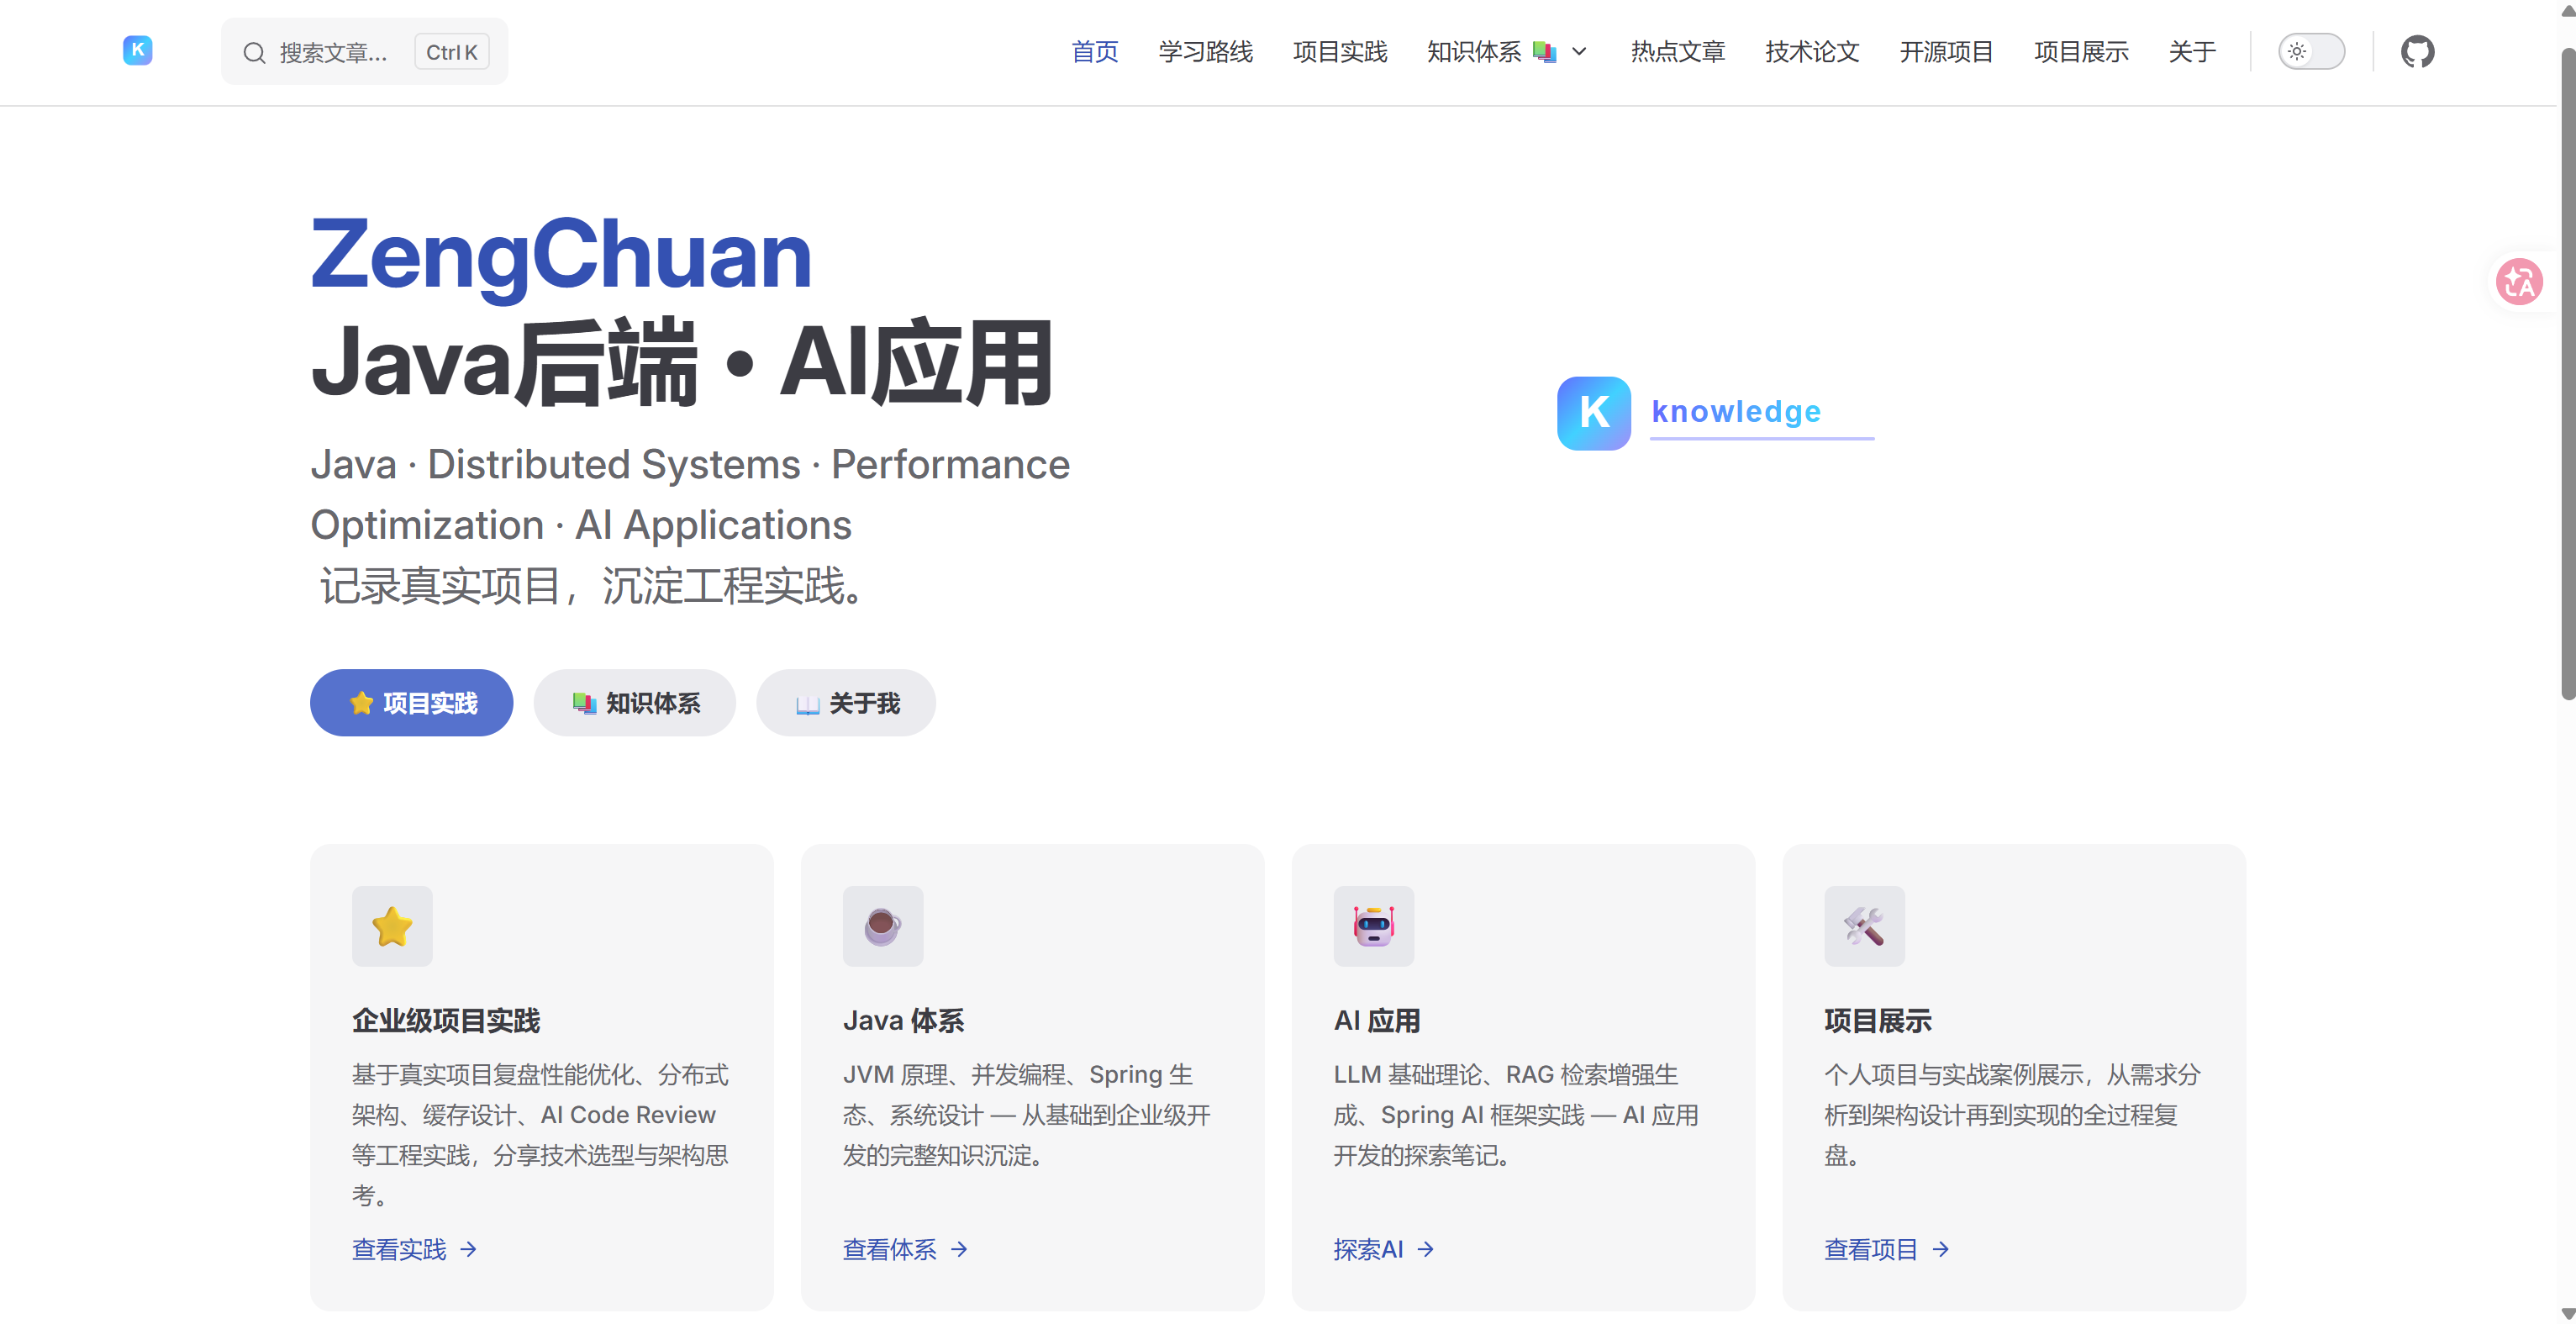
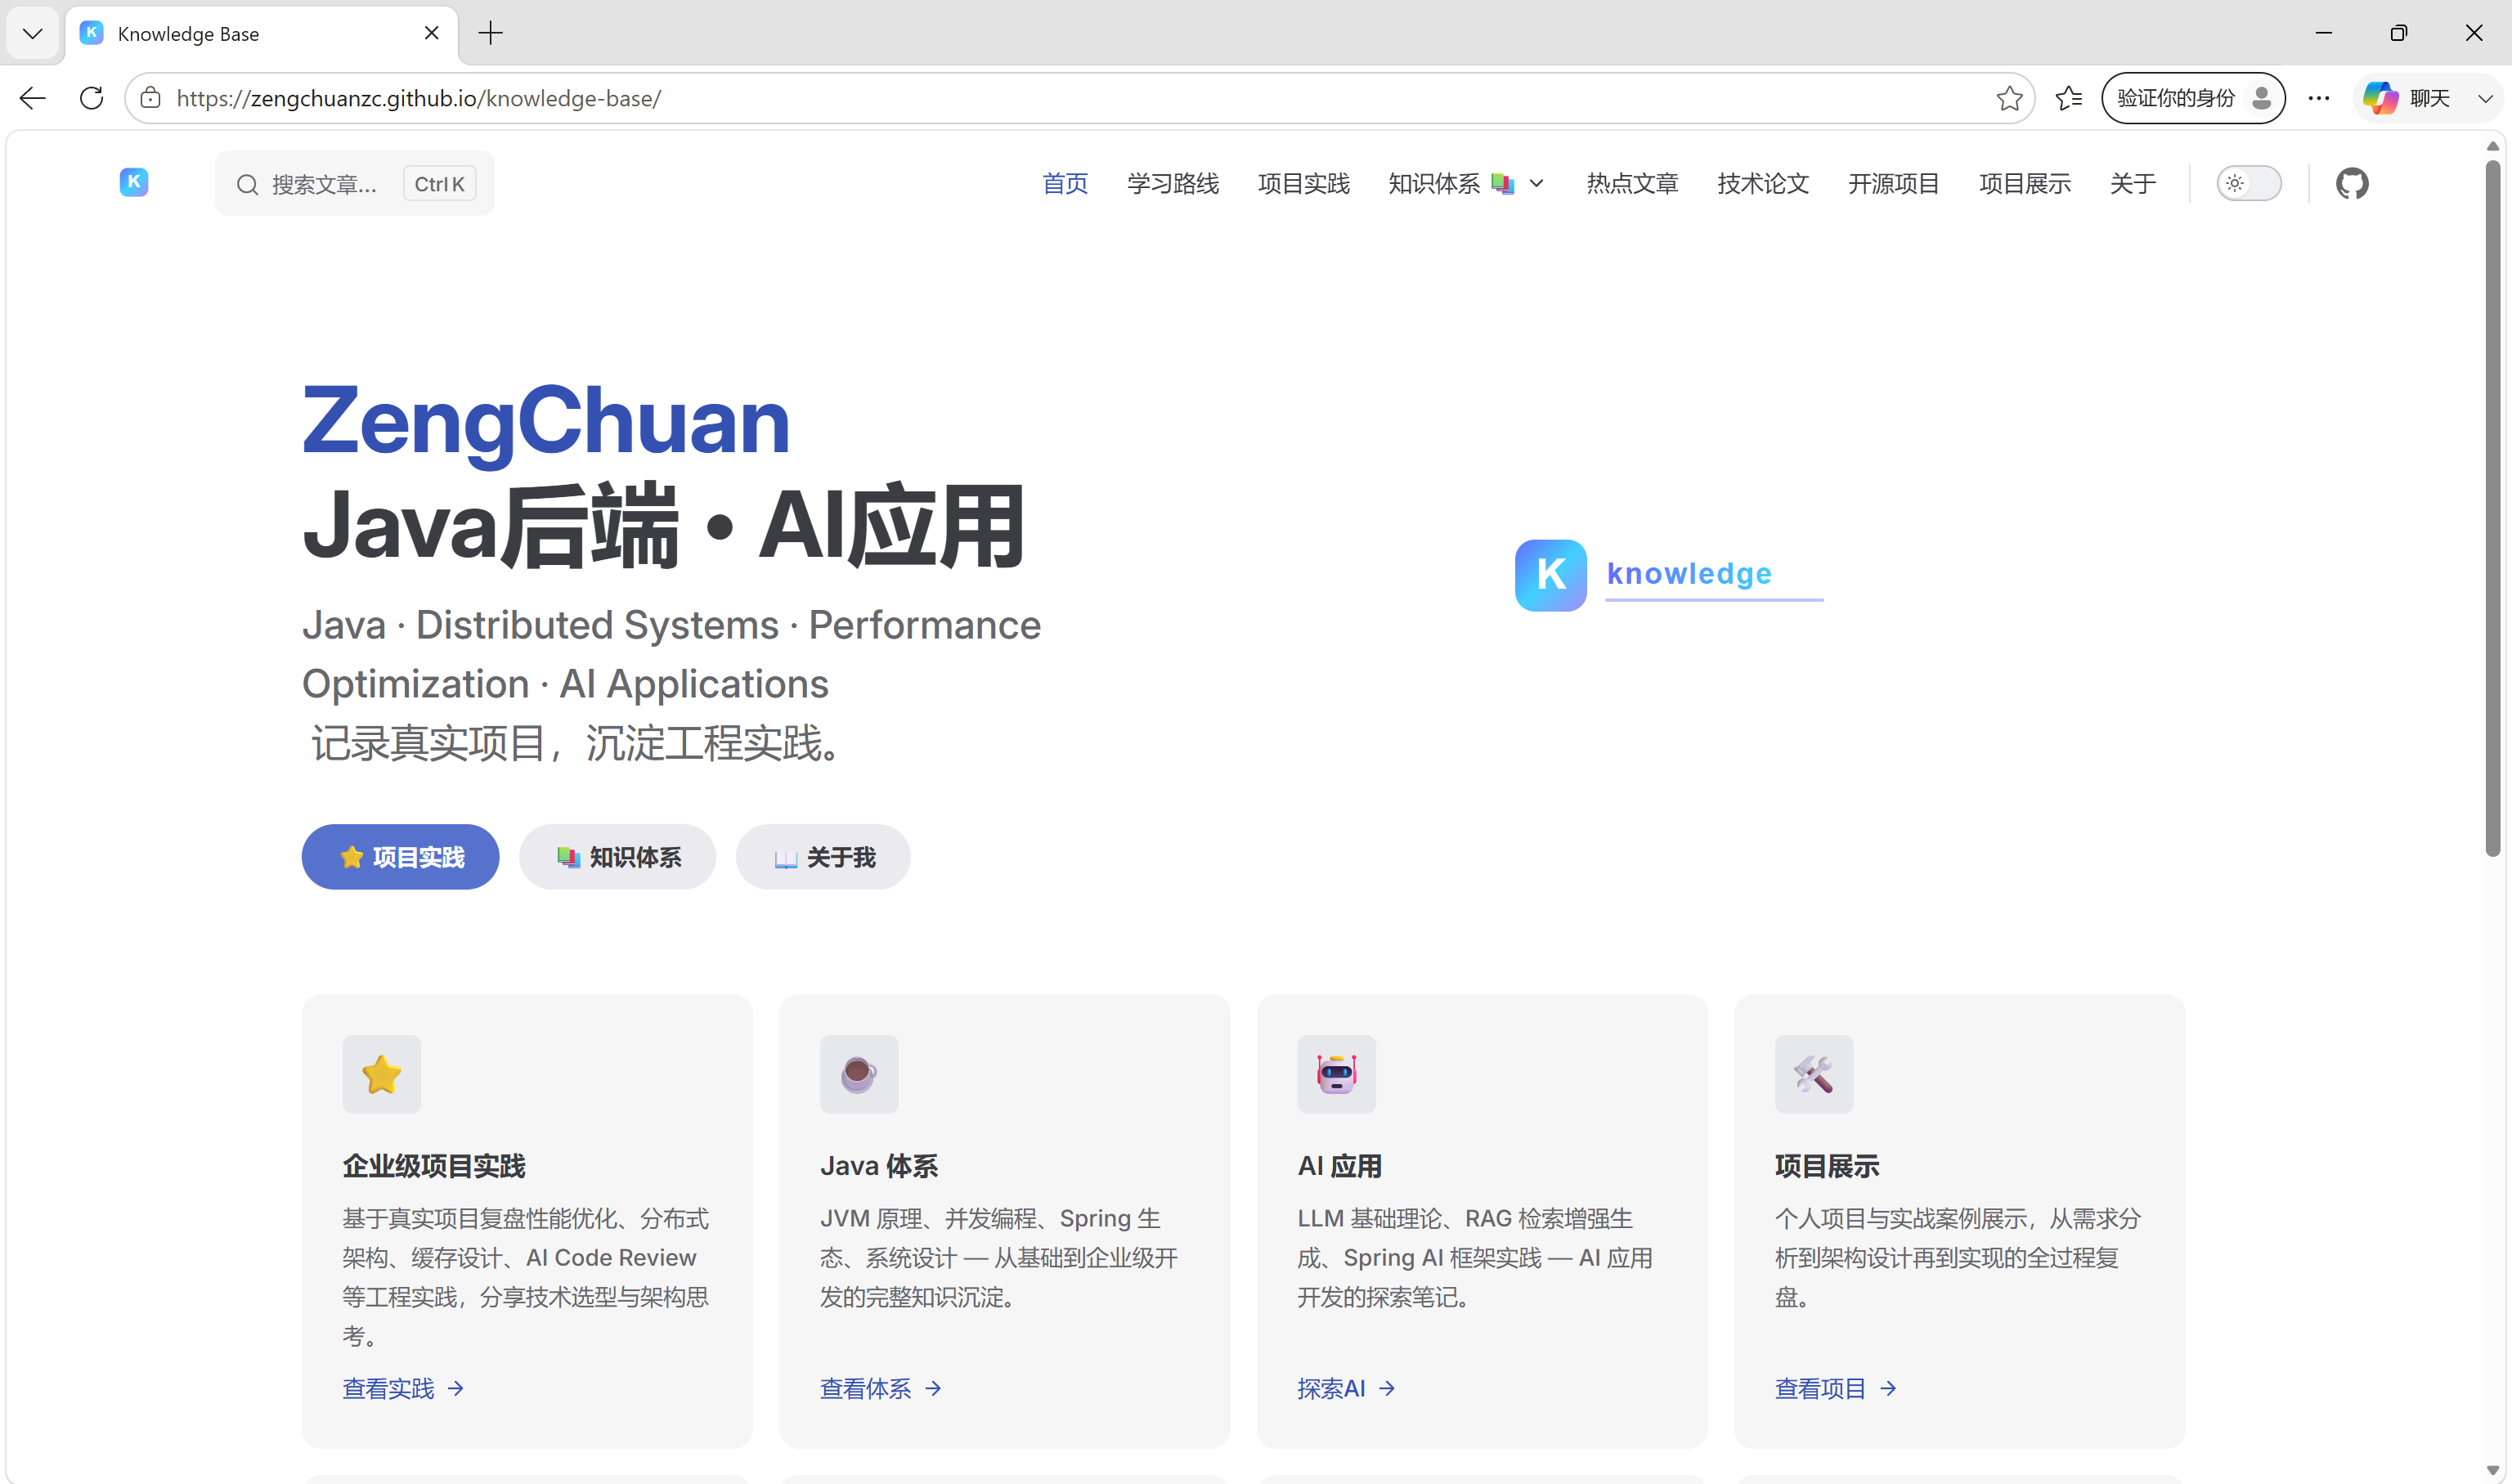
docs:调整readme内容结构

diff --git a/README.md b/README.md
@@ -28,7 +28,7 @@
 
 <p align="center">
   <a href="https://zengchuanzc.github.io/knowledge-base/">
-    <img src="https://zengchuanzc.github.io/knowledge-base/img/index2.png" alt="知识库首页截图" width="720" style="border-radius: 8px; border: 1px solid #e2e8f0;">
+    <img src="https://zengchuanzc.github.io/knowledge-base/img/index.png" alt="知识库首页截图" width="720" style="border-radius: 8px; border: 1px solid #e2e8f0;">
   </a>
   <br>
   <sub>⬆ 知识库首页 · Java 后端 · AI Agent · 学习笔记</sub>